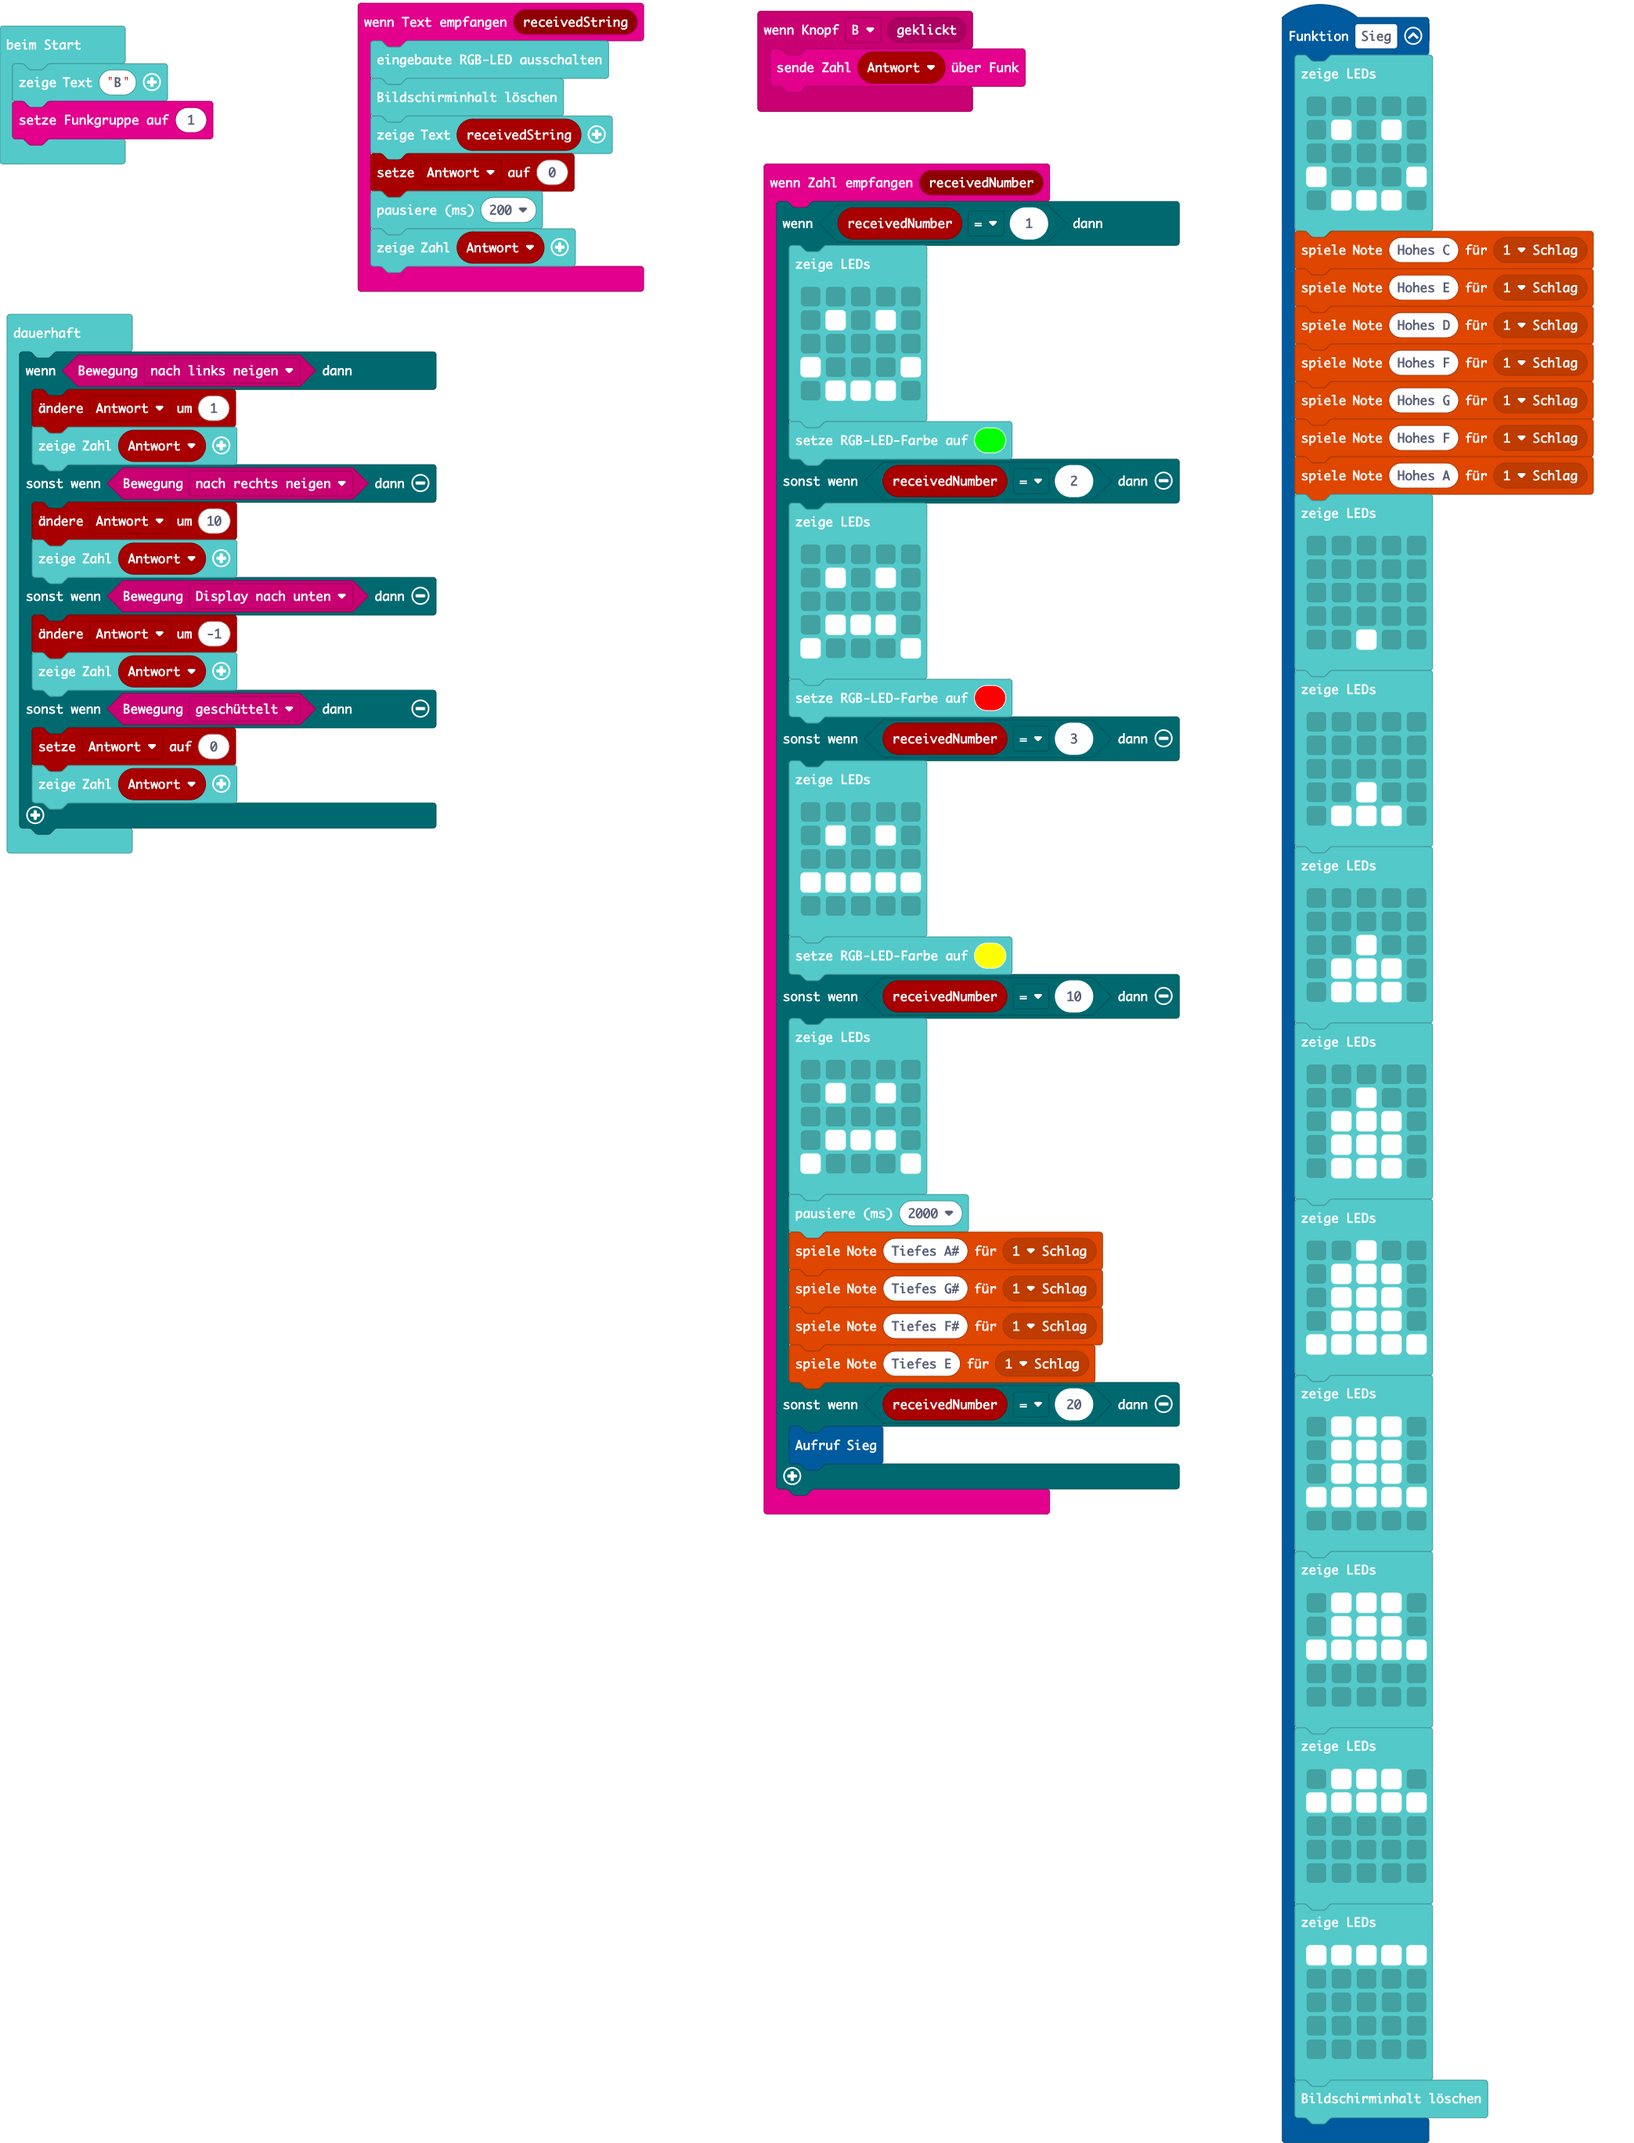
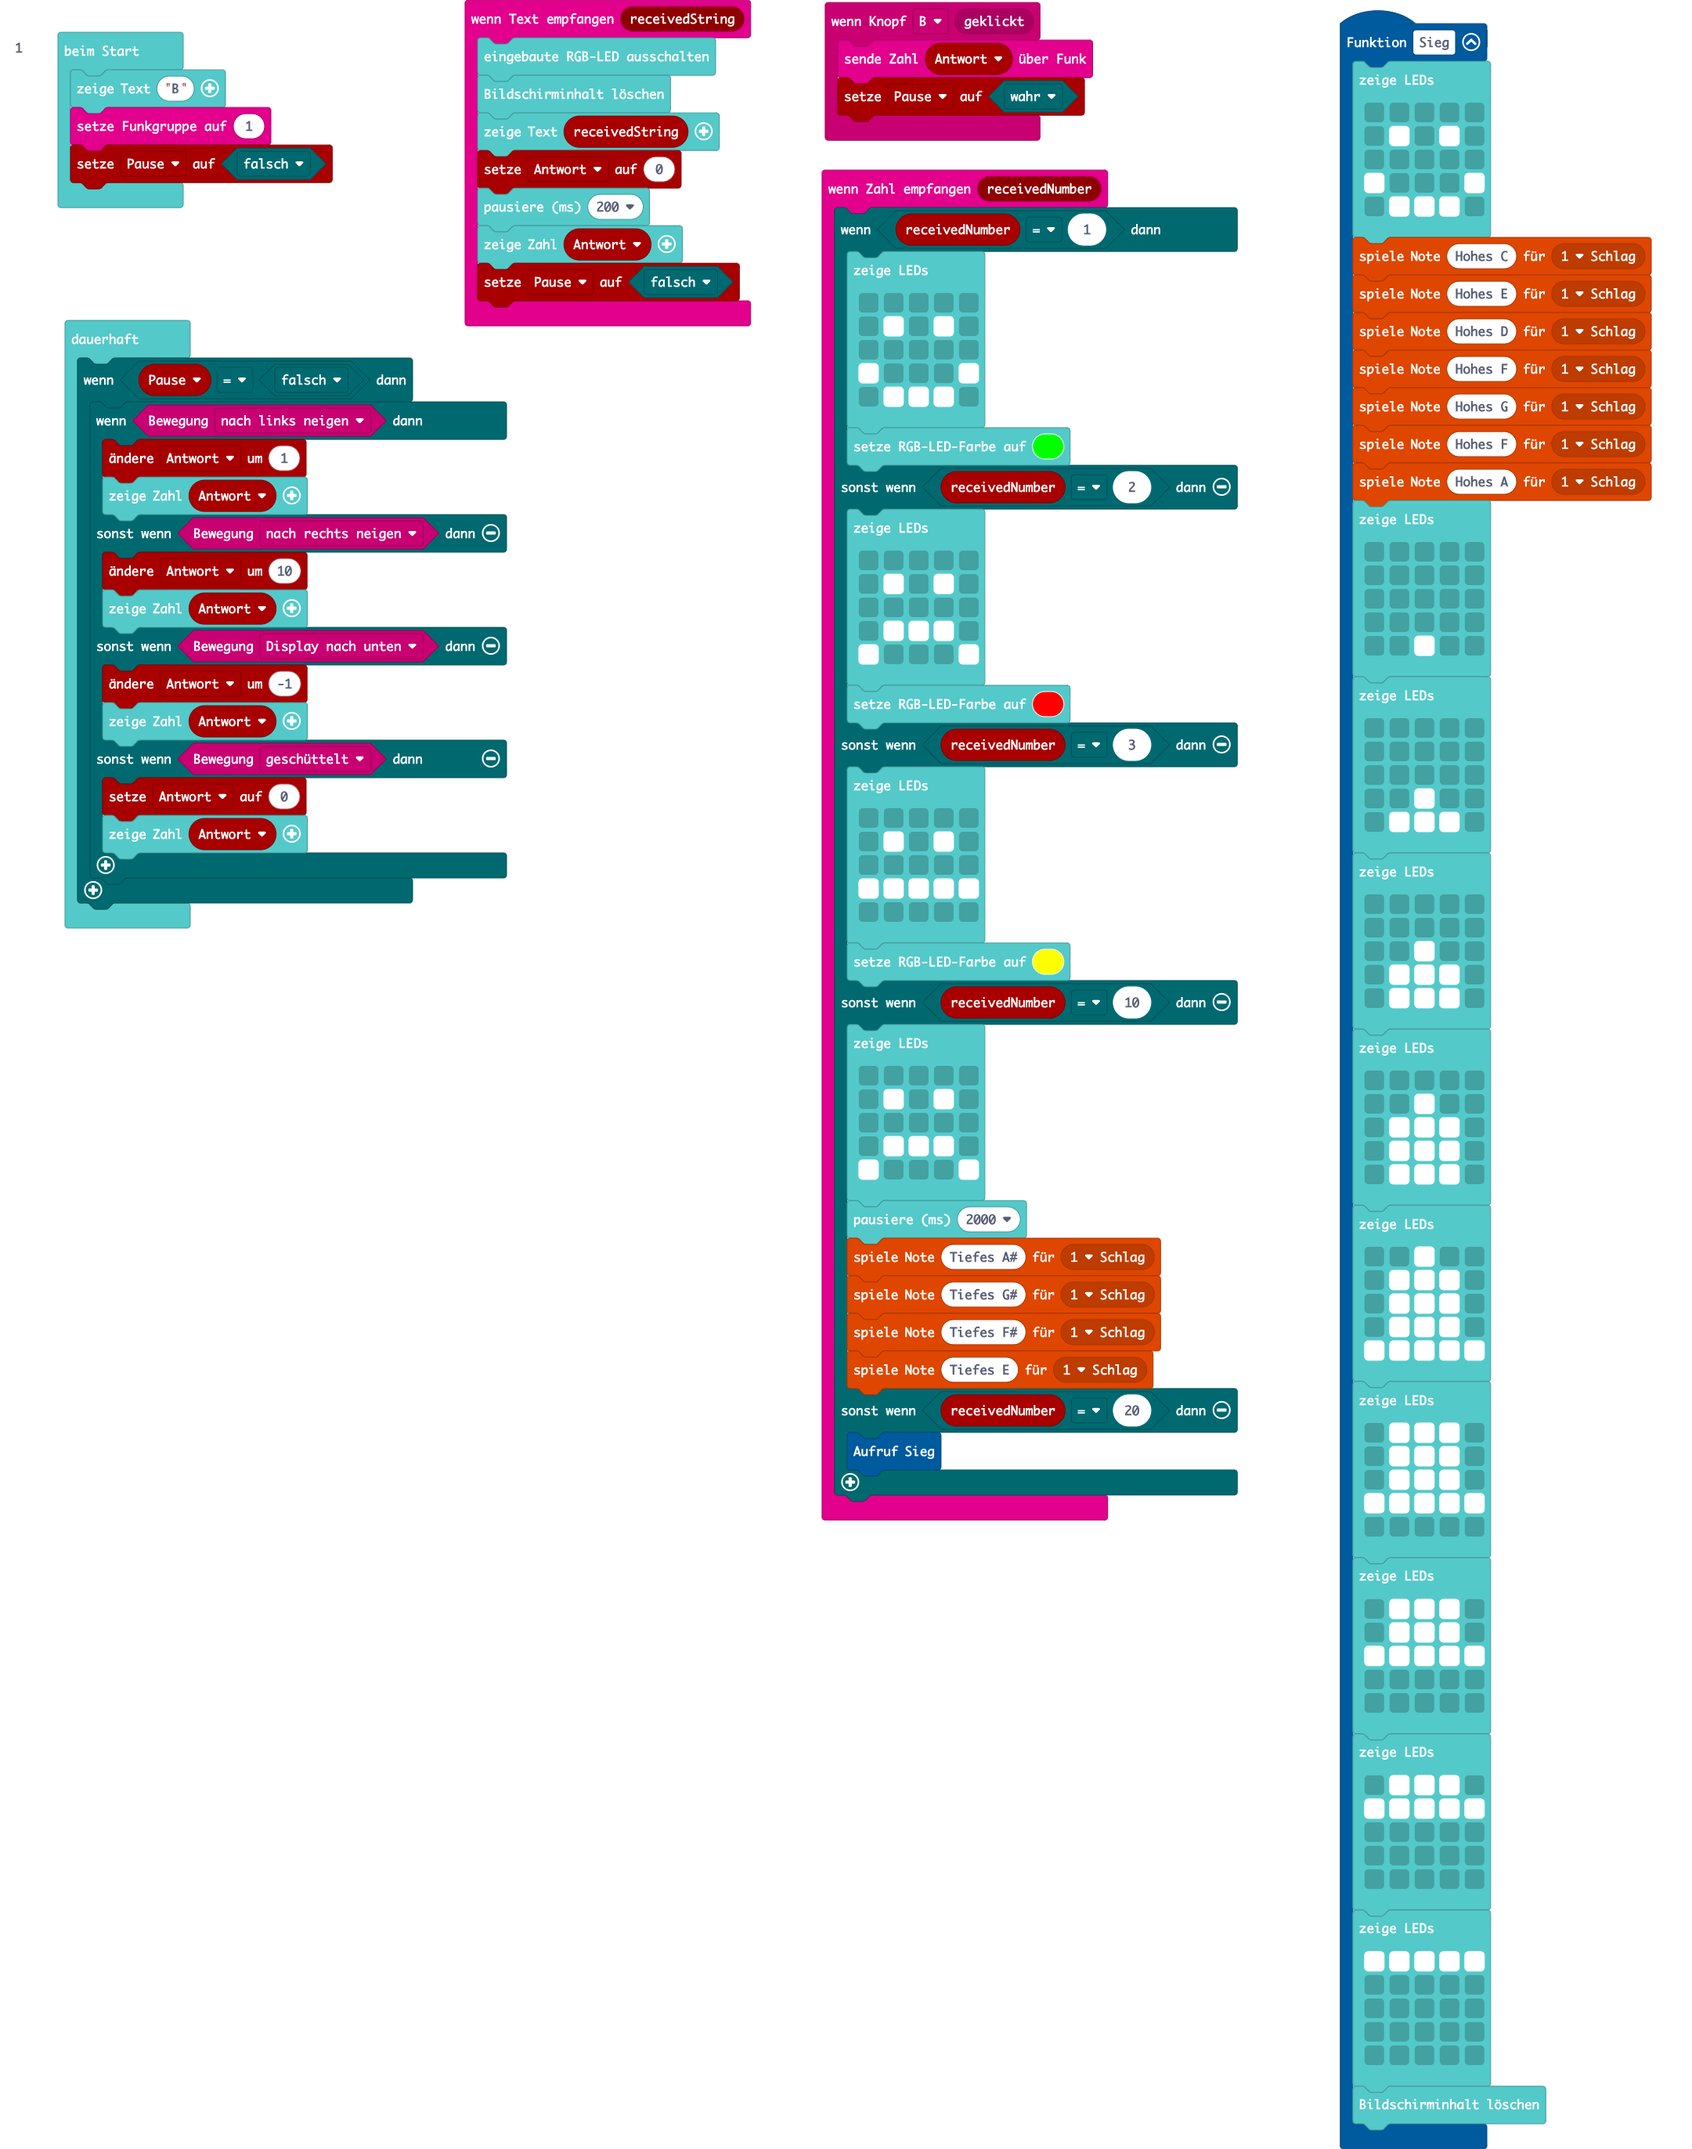
Aktualisiere main.blocks, main.ts

Changed region(s): [[0.0, 0.0, 0.7475, 0.7145], [0.7786, 0.0, 0.9966, 1.0]]

diff --git a/main.ts b/main.ts
@@ -3,7 +3,6 @@ enum RadioMessage {
 }
 radio.onReceivedNumber(function (receivedNumber) {
     if (receivedNumber == 1) {
-        Pause = true
         basic.showLeds(`
             . . . . .
             . # . # .
@@ -13,7 +12,6 @@ radio.onReceivedNumber(function (receivedNumber) {
             `)
         basic.setLedColor(0x00ff00)
     } else if (receivedNumber == 2) {
-        Pause = true
         basic.showLeds(`
             . . . . .
             . # . # .
@@ -23,7 +21,6 @@ radio.onReceivedNumber(function (receivedNumber) {
             `)
         basic.setLedColor(0xff0000)
     } else if (receivedNumber == 3) {
-        Pause = true
         basic.showLeds(`
             . . . . .
             . # . # .
@@ -33,7 +30,6 @@ radio.onReceivedNumber(function (receivedNumber) {
             `)
         basic.setLedColor(0xffff00)
     } else if (receivedNumber == 10) {
-        Pause = true
         basic.showLeds(`
             . . . . .
             . # . # .
@@ -41,19 +37,18 @@ radio.onReceivedNumber(function (receivedNumber) {
             . # # # .
             # . . . #
             `)
-        basic.setLedColor(0xff0000)
-        basic.pause(4000)
+        basic.pause(2000)
         music.playTone(233, music.beat(BeatFraction.Whole))
         music.playTone(208, music.beat(BeatFraction.Whole))
         music.playTone(185, music.beat(BeatFraction.Whole))
         music.playTone(165, music.beat(BeatFraction.Whole))
     } else if (receivedNumber == 20) {
-        Pause = true
         Sieg()
     }
 })
 input.onButtonEvent(Button.B, input.buttonEventClick(), function () {
     radio.sendNumber(Antwort)
+    Pause = true
 })
 function Sieg () {
     basic.showLeds(`
